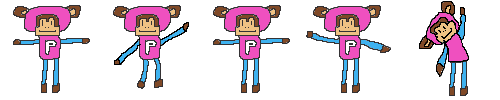
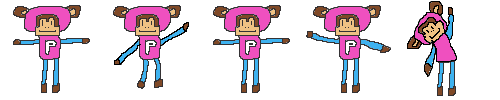
Stupid swinging algorithm to stop rotation

Changed region(s): [[0.81, 0.0, 0.96, 0.96]]

diff --git a/test.html b/test.html
@@ -105,15 +105,15 @@
     this.phase = 1;
   }
   Cord.prototype = {
-    width: 5,
+    width: 2,
     height: 200,
     update: function(){
       var tmpPosition = this.basePosition.clone()
       tmpPosition.add(this.relPosition)
       this.position = tmpPosition
       if (this.phase == 2) {
-        this.segment1angle += 0.1;
-        this.segment2angle += 0.2;
+        this.segment1angle = Math.sin(frameNum / 4) / 2;
+        this.segment2angle = Math.sin(frameNum / 4) ;
       }
     },
     avatar: document.getElementById('cannon'),
@@ -122,12 +122,14 @@
         ctx.fillRect(this.position.x, this.position.y, this.width, this.height)
       } else if (this.phase == 2) {
         ctx.beginPath();
+        ctx.lineWidth = 2
         ctx.moveTo(this.position.x, this.position.y)
         var mid = this.position.clone().add(new Vector(0, this.segment1length).rotate(this.segment1angle));
         ctx.lineTo(mid.x, mid.y);
         var end = mid.clone().add(new Vector(0, this.segment2length).rotate(this.segment2angle));
         ctx.lineTo(end.x, end.y);
         ctx.stroke();
+        this.mid = mid
       }
     },
     midpoint: function() {
@@ -211,24 +213,28 @@
         this.position.add(this.vector)
         this.currentPosition = this.position
       } else {
-        this.angle = 0
-        var tmp = this.cord.position.clone();
-        tmp.add(this.relPosition)
+        this.angle = Math.sin(frameNum / 3) /2 
+        var tmp = this.cord.mid.clone();
+        // tmp.add(this.relPosition)
         this.position = tmp
       }
     },
     avatar: document.getElementById('monkey'),
     draw: function(ctx){
-      ctx.save()
-      ctx.translate(Math.floor(this.position.x), Math.floor(this.position.y));
-      ctx.rotate(this.angle);
       var width = 100
       var height = 100
-      if (this.attached)
+      ctx.save()
+      if (this.attached){
         var sliceIndex = 4
-      else
+        ctx.translate(Math.floor(this.position.x), Math.floor(this.position.y));
+        ctx.rotate(this.angle);
+        ctx.drawImage(this.avatar, sliceIndex * width, 0, width, height, -(width/2), 0, width, height)
+      } else {
         var sliceIndex = (frameNum % 4)
-      ctx.drawImage(this.avatar, sliceIndex * width, 0, width, height, -(width/2), -(height/2), width, height)
+        ctx.translate(Math.floor(this.position.x), Math.floor(this.position.y));
+        ctx.rotate(this.angle);
+        ctx.drawImage(this.avatar, sliceIndex * width, 0, width, height, -(width/2), -(height/2), width, height)
+      }
       ctx.restore()
     },
     attach: function(cord) {
